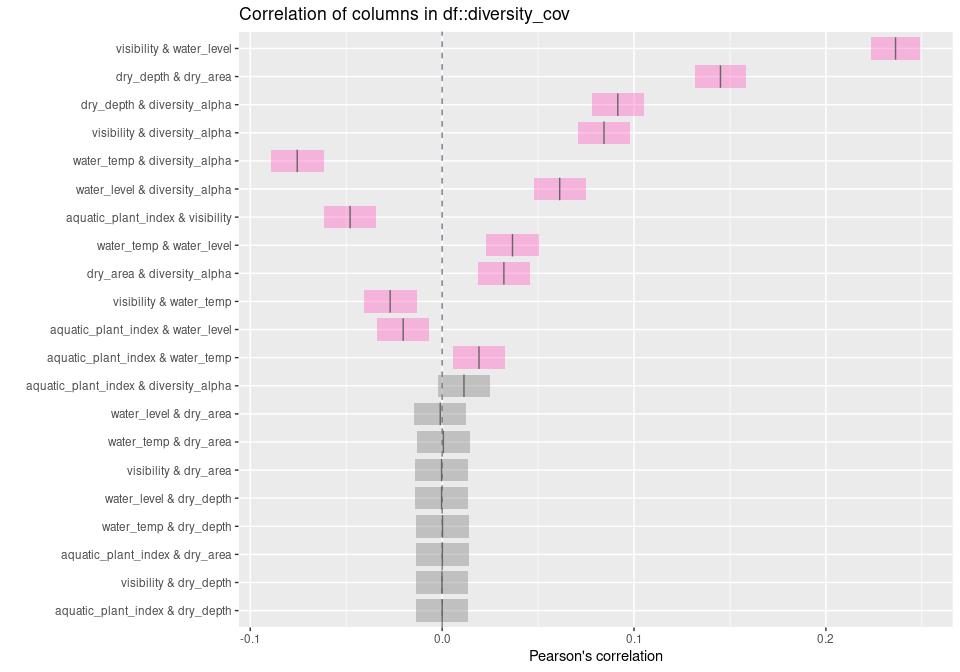
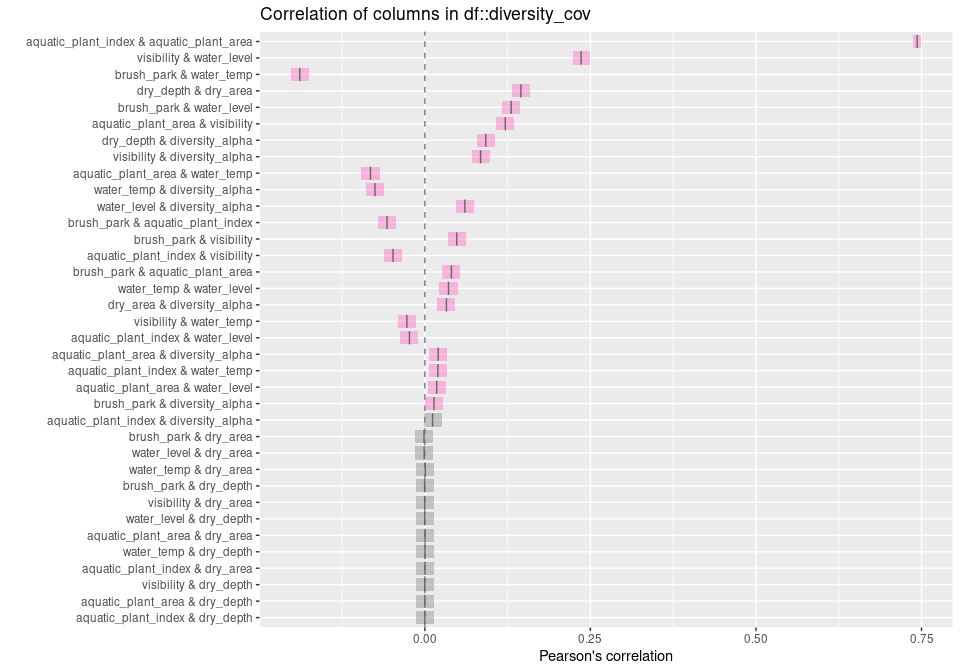
Look for factors that influence diversity

diff --git a/notebooks/diversity.md b/notebooks/diversity.md
@@ -87,7 +87,7 @@ occasion_cov <- occasion_info %>%
          aquatic_plant_index = aquatic_plant_area * aquatic_plant_density, 
          across(c("month", "year"), as.character)) %>%
   select(occasion, year, season, month, water_level, water_temp, visibility,
-         aquatic_plant_index) %>%
+         aquatic_plant_area, aquatic_plant_index, brush_park) %>%
   distinct()
 
 refuge_cov <- refuge_info %>%
@@ -116,8 +116,8 @@ inspectdf::inspect_na(diversity_cov) %>% filter(pcnt > 0) %>% knitr::kable()
 
 | col\_name             | cnt |      pcnt |
 | :-------------------- | --: | --------: |
-| water\_temp           | 280 | 1.3617352 |
-| aquatic\_plant\_index |  40 | 0.1945336 |
+| water\_temp           | 280 | 1.3564577 |
+| aquatic\_plant\_index |  40 | 0.1937797 |
 
 It appears that all cases of missing water temperature are within the
 first occasion at the end of the wet season in 2012.
@@ -174,6 +174,9 @@ water temperature.
 Dry depth and dry area appear to be non-seasonal factors that are
 positively correlated with diversity.
 
+These results generally agree with the multivariate analysis of
+[seasonality](%22seasonality.md%22)
+
 ``` r
 inspectdf::inspect_cor(diversity_cov, method = "spearman") %>% inspectdf::show_plot()
 ```
@@ -190,3 +193,70 @@ inspectdf::inspect_cor(diversity_cov, method = "pearson") %>% inspectdf::show_pl
 ```
 
 ![](diversity_files/figure-gfm/unnamed-chunk-11-1.png)<!-- -->
+
+### Statistical model
+
+A quick exploration of the diversity parameters.
+
+First, we are interested on investigating whether there are diversity
+differences across seasons, and particularly the beginning and the end
+of each of them. First, we use a extra simple model with seasons/months
+as categorical values which is looking for significant differences among
+them. Then, we look at a more mechanistic point of view which looks at
+the environmental factors that promote diversity.
+
+``` r
+m_c <- brms::brm(diversity_alpha ~ month + year, data = diversity_cov, cores = 4)
+```
+
+    ## Compiling Stan program...
+
+    ## Start sampling
+
+``` r
+plot(brms::conditional_effects(m_c), ask = F)
+```
+
+![](diversity_files/figure-gfm/unnamed-chunk-12-1.png)<!-- -->![](diversity_files/figure-gfm/unnamed-chunk-12-2.png)<!-- -->
+
+``` r
+brms::bayes_R2(m_c)
+```
+
+    ##     Estimate   Est.Error      Q2.5     Q97.5
+    ## R2 0.1078166 0.003814142 0.1004648 0.1154571
+
+``` r
+m_m <- brms::brm(diversity_alpha ~ water_level + aquatic_plant_area + brush_park + water_temp, 
+           data = diversity_cov, cores = 4)
+```
+
+    ## Compiling Stan program...
+    ## Start sampling
+
+``` r
+plot(brms::conditional_effects(m_m), ask = F, points = T)
+```
+
+![](diversity_files/figure-gfm/unnamed-chunk-12-3.png)<!-- -->![](diversity_files/figure-gfm/unnamed-chunk-12-4.png)<!-- -->![](diversity_files/figure-gfm/unnamed-chunk-12-5.png)<!-- -->![](diversity_files/figure-gfm/unnamed-chunk-12-6.png)<!-- -->
+
+``` r
+brms::bayes_R2(m_m)
+```
+
+    ##       Estimate   Est.Error        Q2.5      Q97.5
+    ## R2 0.009588797 0.001359923 0.007054068 0.01235044
+
+We found that the average difference between the beginning and end of
+the seasons is fairly small and that the differences among years is also
+relatively small.
+
+The model with mechanistic variables show some significant relationships
+but the R2 of that model is really small. Suggesting that they are not
+as important on its own and account for only a small amount of
+variability that can be explained by treating seasonality as a
+categorical variable.
+
+If we use models like this in the actual paper we should focus on the
+categorical model and explain how environmental co-variates change
+across seasons.
